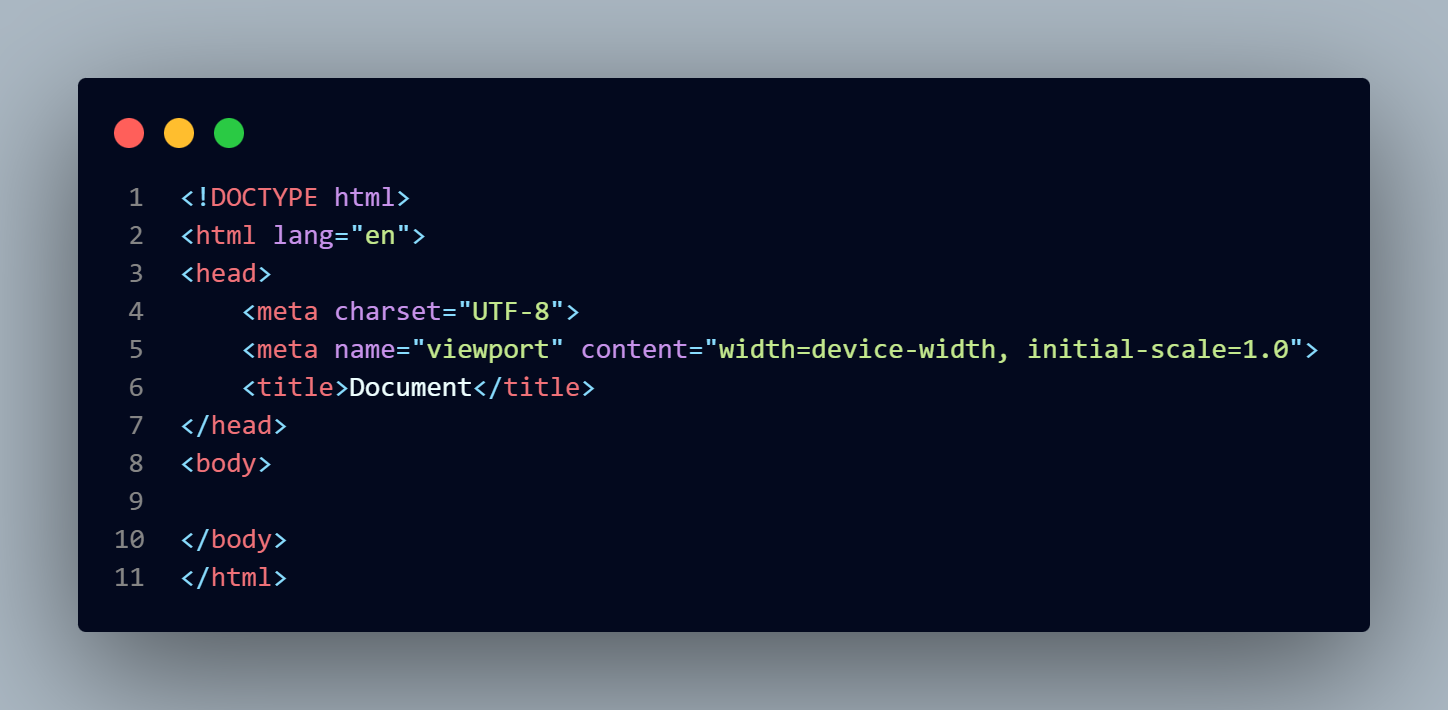
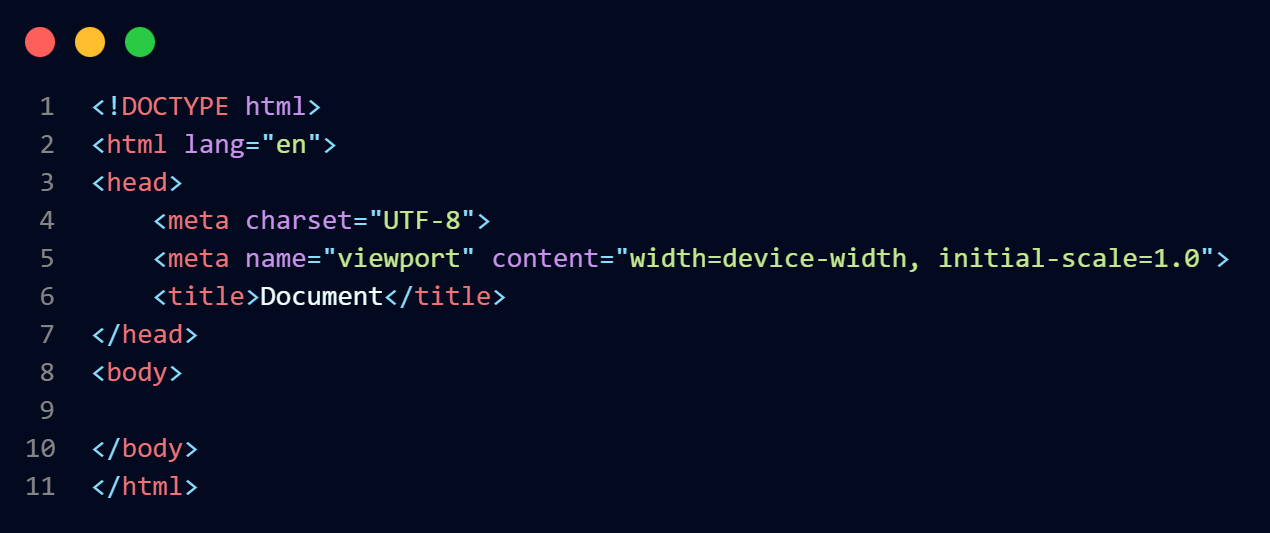
co

diff --git a/src/page/stylep1.css b/src/page/stylep1.css
@@ -4,7 +4,7 @@
     flex-direction: row;
     gap: 2vw;
     align-items: start;
-    justify-content: center;
+    justify-content: space-between;
 }
 
 .sec1h1{
@@ -12,33 +12,123 @@
     align-items: start;
     justify-content: start;   
     flex-direction: column;
-    width: 50%;
-}
-.sec1h1 h2{
-    font-family: var(--font1);
-    font-size: 2.5vw;
-    color: var(--color1);
-    border-bottom: 0.2vw solid var(--color1);
-    padding-bottom: 0.5vw;
-    margin-bottom: 1vw;
+    flex: 1.5;
+    padding-left: 4vw;
+    position: relative;
 }
 
-.sec1h1 p{
-    font-size: 1.2vw;
-    color: var(--color5);
-    font-family: var(--font2);
-    text-align: justify;
-    width: 90%;
-    line-height: 1.7;
-    border-bottom: 0.15vw solid var(--color1);
-    padding-bottom: 4vw;
-}
-
-.sec1h2{
-    border-left:0.2vw solid var(--color1);
-    width: 40%;
-    height: 30vw;
+.cosh1{
     display: flex;
     align-items: start;
     justify-content: start;
+    flex-direction: column;
+    width: 100%;
+}
+
+.cosh1 img{
+    width: 10%;
+    margin: 0;
+}
+
+.sec1h1 h3{
+    margin:0.5vw;
+}
+
+.cosh1 p{
+    font-size: 1.3vw;
+    color: var(--color5);
+    font-family: var(--font4);
+    text-align: justify;
+    width: 95%;
+    line-height: 1.9;
+    border: 0.1vw solid var(--color1);
+    padding: 3vw;
+    text-indent: 1.5rem;
+    display: flex;
+    align-items: center;
+    justify-content: center;
+    border-radius: 0.4vw;
+    margin-top: 2vw;
+}
+
+.sec1h2{
+    border-left:0.15vw solid var(--color1);
+   flex: 1;
+    gap: 3vw;
+    display: flex;
+    align-items: center;
+    justify-content: start;
+   
+}
+
+.imgsh1{
+    width: 90%;
+    border-radius: 1vw;
+    margin-top: 5vw;
+}
+
+.imgsec1h2{
+    width: 100%;
+}
+
+.scn1{
+    width: 90%;
+    display: flex;
+    flex-direction: column;
+    align-items: center;
+    justify-content: center;
+    background: rgb(255, 255, 255);
+ border: 0.1vw solid var(--still1);
+    border-radius: 0.4vw;
+    overflow: auto;
+    padding-bottom: 3vw;
+}
+
+.scn1 p{
+    width: 90%;
+    text-align: justify;
+    font-family: var(--font4);
+    font-weight: 400;
+    font-size: clamp(0.9rem, 1vw, 1.5rem);
+}
+
+.headerp{
+    background: var(--color4);
+    width: 95%;
+    border: 0.1vw solid var(--color1);
+   align-items: start;
+   padding: 2vw;
+   padding-left: 2vw;
+   border-radius: 0.4vw;
+   position: relative;
+}
+
+.headerp h1{
+    font-family: var(--font1);
+    font-size: 1.7vw;
+    color: var(--color1);
+    margin: 0.5vw;
+    padding-bottom: 0.5vw;
+    margin-bottom: 1vw;
+    font-weight: 400;
+    margin-bottom: 0;
+}
+
+.headerp p{
+    margin: 0.5vw;
+    margin-top: 0;
+    font-size: clamp(0.7rem, 1vw, 1.5rem);
+}
+
+.headerp img{
+    height: 75%;
+    position: absolute;
+    right: 1vw;
+}
+
+.garis1{
+   height: 0.21nvw;
+    width: 95%;
+    background: var(--color1);
+    margin: 0;
 }

diff --git a/src/page/PenjelasanHtml.jsx b/src/page/PenjelasanHtml.jsx
@@ -5,6 +5,9 @@ import "./Htmljs.css";
 import ScrollToTop from "../components/ScrolToTop";
 import { useNavigate } from "react-router-dom";
 import "./stylep1.css";
+import html5 from "../img/html5.jpg";
+import code1 from "../img/html1.png";
+import nxc from "../img/nxc2.png";
 
 export default function PenjelasanHtml() {
   const navigate = useNavigate();
@@ -14,26 +17,62 @@ export default function PenjelasanHtml() {
       <Nav class1="navigasi" />
       <ScrollToTop />
       <main className="main1">
-        <section className="sec1h1">
-        <h2>Apa itu HTML</h2>
+        <article className="sec1h1">
+          <header className="headerp">
+  
+             <h1>Apa itu HTML</h1>
+             <p>30 Mei 2026</p> 
+     <img src={nxc} alt="nxc" />
 
-        <p>  HTML adalah kepanjangan dari HyperText Markup
-Language. Jika diibaratkan, HTML itu seperti kerangka
-atau pondasi sebuah bangunan. Tanpa HTML, 
-sebuah website tidak akan memiliki struktur yang jelas.
-HTML  digunakan untuk menyusun bagian halaman
-seperti judul, paragraf, daftar, gambar, tombol, dan
-elemen lainnya agar  konten tampil teratur dan mudah 
-dibaca.</p>
+          </header>
+          <section className="cosh1">
+            <p>
+              HTML adalah kepanjangan dari HyperText Markup Language. Jika
+              diibaratkan, HTML itu seperti kerangka atau pondasi sebuah
+              bangunan. Tanpa HTML, sebuah website tidak akan memiliki struktur
+              yang jelas. HTML digunakan untuk menyusun bagian halaman seperti
+              judul, paragraf, daftar, gambar, tombol, dan elemen lainnya agar
+              konten tampil teratur dan mudah dibaca.
+            </p>
 
- <h3>30 Mei 2026</h3>
-        </section>
-       
+            <hr className="garis1" />
+        <img src={nxc} alt="nxc" />
+           
+          </section>
 
+            <img className="imgsh1" src={html5} alt="html5" />
+         
+        </article>
 
-        <section className="sec1h2">
-      hello
-        </section>
+        <article className="sec1h2">
+           <section className="scn1">
+            <img className="imgsec1h2" src={code1} alt="html" />
+          <p>
+            Itu adalah sturktur dasar HTML dan tag h1 digunakan 
+            untuk membuat judul pada halaman sebuah website.
+          </p>
+         
+           </section>
+
+          <section className="scn1">
+            <img className="imgsec1h2" src={code1} alt="html" />
+          <p>
+            Itu adalah sturktur dasar HTML dan tag h1 digunakan 
+            untuk membuat judul pada halaman sebuah website.
+          </p>
+         
+           </section>
+
+           <section className="scn1">
+            <img className="imgsec1h2" src={code1} alt="html" />
+          <p>
+            Itu adalah sturktur dasar HTML dan tag h1 digunakan 
+            untuk membuat judul pada halaman sebuah website.
+          </p>
+         
+           </section>
+
+        </article>
       </main>
 
       <Footer />

diff --git a/src/App.css b/src/App.css
@@ -12,6 +12,7 @@
     --font3: unset;
     --font4: inherit;
     --font5: monospace;
+    --fontp: "Poppins", sans-serif;;
 }
 
 
@@ -145,11 +146,12 @@ body::-webkit-scrollbar{
     
 }
 
-.cns h3{
-    font-size: clamp(1rem, 2rem, 2rem);
+.cns h2{
+    font-size: clamp(1rem, 2.2vw, 2rem);
     color: var(--color1);
-    font-family: var(--font2);
+    font-family: var(--fontp);
     text-align: center;
+    font-weight: 500;
 }
 
 .des{
@@ -167,7 +169,8 @@ body::-webkit-scrollbar{
 
 .des p{
     text-indent: 1.5rem;
-    font-size: clamp(0.9rem, 1.2vw, 2rem);
+    font-size: clamp(0.9rem, 1vw, 2rem);
+    font-family: var(--fontp);
 }
 
 .cnsbtn{
@@ -329,7 +332,7 @@ text-decoration: none;
         margin-top: 5vw;
     }
 
-    .cns h3{
+    .cns h2{
           font-size: clamp(1rem, 1.5rem, 2rem);
         margin-bottom: 1vw;
         margin-top: 10vw;

diff --git a/index.html b/index.html
@@ -38,6 +38,15 @@
 
   <!-- Browser Compatibility -->
   <meta http-equiv="X-UA-Compatible" content="IE=edge" />
+
+
+  <!-- font -->
+   <link rel="preconnect" href="https://fonts.googleapis.com">
+<link rel="preconnect" href="https://fonts.gstatic.com" crossorigin>
+<link href="https://fonts.googleapis.com/css2?family=
+Poppins:ital,wght@0,100;0,200;0,300;0,400;0,500;0,600;0,700;0,800;0,900;1,100;1,200;
+1,300;1,400;1,500;1,600;1,700;1,800;1,900&display=swap" rel="stylesheet">
+
 </head>
   <body>
     <div id="root"></div>

diff --git a/src/components/header.jsx b/src/components/header.jsx
@@ -30,7 +30,7 @@ export default function Header() {
           <section className="imgd1 fade-up">
             <div className="imglz">
               <figure className="img1">
-                <h2 className="h2img1">Nexertc</h2>
+                <h1 className="h2img1">Nexertc</h1>
               </figure>
               <img className="nxc" src={nxc} alt="nxc" />
               <div className="overlay"></div>
@@ -48,7 +48,7 @@ export default function Header() {
             </section>
           </section>
           <section className="des fade-up">
-            <h3>Ardeva Alghifari</h3>
+            <h2>Ardeva Alghifari</h2>
             <p>
               Website ini dibuat menggunakan library bernama <b>React JS</b> dan
               tols bernama
@@ -56,7 +56,8 @@ export default function Header() {
               sekolah SMK Geo Informatika, dan lulusan dari SMP Negeri 01
               Dramaga lahir pada 28 mei 2009 di Sragen Jawa Tengah. Jika ada
               keperluan dengan saya bisa kunjungi media sosial saya di bawah
-              ini.
+              ini. 
+              
             </p>
             <figure className="imgd2">
               <img className="img2" src={clan} alt="clan" />

diff --git a/src/components/section/Section1.jsx b/src/components/section/Section1.jsx
@@ -28,7 +28,7 @@ export default function Section1() {
         <hr className="hrs1" />
         <section>
           <section className="imgdes1">
-            <article className="imgdes2 fade-up" onClick={() => navigate("/penjelasan-html")} style={{cursor: 'pointer'}}>
+            <article className="imgdes2 fade-up" onClick={() => navigate("/penjelasan-html")}>
               <figure>
                 <img className="imgs1" src={html5} alt="html5" />
               </figure>

diff --git a/src/App2.jsx b/src/App2.jsx
@@ -15,7 +15,6 @@ return(
   <h4>helo</h4>
  
 <button onClick ={()=> navigate("/")} >klik disini</button>
-
 </div>
 );
 }